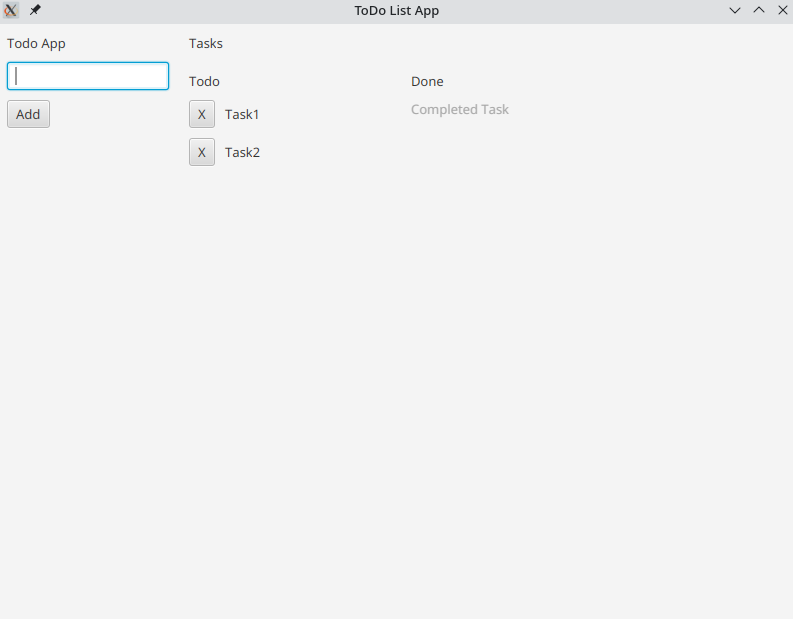
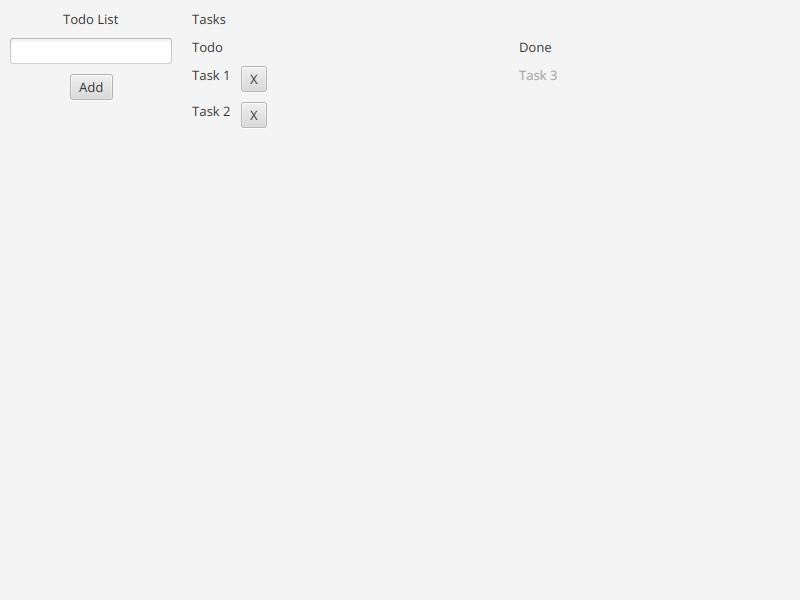
Split layout exercise into form and task column checkpoints

diff --git a/javafx-2-layouts/src/main/java/it/unibo/javafx/layouts/App.java b/javafx-2-layouts/src/main/java/it/unibo/javafx/layouts/App.java
@@ -1,51 +1,46 @@
 package it.unibo.javafx.layouts;
 
 import javafx.application.Application;
-import javafx.geometry.Pos;
 import javafx.scene.Node;
 import javafx.scene.Scene;
-import javafx.scene.control.Button;
-import javafx.scene.control.Label;
-import javafx.scene.control.TextField;
 import javafx.scene.layout.BorderPane;
-import javafx.scene.layout.HBox;
-import javafx.scene.layout.Priority;
 import javafx.scene.layout.VBox;
 import javafx.stage.Stage;
 
 public class App extends Application {
     @Override
-    public void start(Stage primaryStage) throws Exception {
-        // Il root è un BorderPane, che divide la finestra in 5 aree: top, bottom, left, right, center.
-        // Noi usiamo solo left e center.
-        BorderPane root = new BorderPane();
-        // Left Pane, contiene il titolo e il form per aggiungere nuovi task.
-        VBox leftPane = new VBox();
-        // TODO aggiungere il titolo e i pulsanti
-        // Aggiungo i nodi al leftPane
-        // ....
-        // Right Pane, contiene il task da fare e i task fatti (vedi l'immagine)
-        VBox rightPane = new VBox();
-        // Aggiungo le due colonne,
-        // ..
-         // Imposto i pannelli sinistro e centrale come figli del root.
-        root.setLeft(leftPane);
-        root.setCenter(rightPane);
+    public void start(final Stage primaryStage) {
+        final BorderPane root = new BorderPane();
+        root.setLeft(createInputPane());
+        root.setCenter(createTasksPane());
 
-        Scene scene = new Scene(root, 800, 600);
         primaryStage.setTitle("ToDo List App");
-        primaryStage.setScene(scene);
+        primaryStage.setScene(new Scene(root, 800, 600));
         primaryStage.show();
     }
 
-    public static class Main {
-        public static void main(String... args) {
-            Application.launch(App.class, args);
-        }
+    // Checkpoint 2A: costruire il form.
+    private static VBox createInputPane() {
+        final VBox pane = new VBox();
+        // TODO completare come richiesto nel README.
+        return pane;
     }
 
-    // Crea un todo composto da una label e un bottone per segnare il task come completato.
-    private static Node createTaskSection(String content) {
-        throw new UnsupportedOperationException("TODO");
+    // Checkpoint 2B: costruire l'area Tasks con le due colonne e i dati statici.
+    private static VBox createTasksPane() {
+        final VBox pane = new VBox();
+        // TODO completare come richiesto nel README.
+        return pane;
+    }
+
+    // Checkpoint 2B: costruire una riga dei task da fare.
+    private static Node createTaskSection(final String content) {
+        throw new UnsupportedOperationException("Not implemented yet");
+    }
+
+    public static class Main {
+        public static void main(final String... args) {
+            Application.launch(App.class, args);
+        }
     }
 }

diff --git a/javafx-2-layouts/README.md b/javafx-2-layouts/README.md
@@ -1,39 +1,46 @@
-# Esercizio sull'utilizzo dei layout in JavaFX
+# Esercizio sui layout di JavaFX: la TODO list
 
-Questo esercizio ha lo scopo di sviluppare una comprensione pratica dei layout in JavaFX, creando un'interfaccia grafica (GUI) per un'applicazione. 
-L'obiettivo è realizzare una GUI che corrisponda all'aspetto mostrato nell'immagine di esempio. 
-L'esercizio si concentra esclusivamente sulla struttura della GUI, senza implementare la logica di business, che sarà affrontata in seguito.
+Costruire l'interfaccia di una TODO list in due checkpoint, nello stesso progetto. L'obiettivo è comporre i controlli e organizzare i contenitori, riprendendo le sezioni sui layout e sul dimensionamento delle [slide del corso](https://unibo-lptsi-pss.github.io/22-gui/#/).
 
-![GUI Layout Example](./schema.png)
+I dati sono statici: i pulsanti **Add** e **X** devono essere visibili, ma non devono ancora eseguire azioni. La logica sarà aggiunta nell'esercizio 3.
 
-## Fasi per la realizzazione della GUI
+## 2A — Il form
 
-### Analisi dei componenti necessari
-- Esaminare attentamente l'immagine fornita per identificare i componenti necessari alla creazione della GUI.
+Completare `createInputPane()` con un titolo “Todo List”, un campo di testo e un pulsante “Add”, disposti in verticale. Il form occupa l'area sinistra della finestra; l'area centrale resta per ora vuota.
 
-### Sviluppo della parte sinistra
-- La parte sinistra della GUI deve includere:
-  - Un titolo.
-  - Un campo di testo.
-  - Un pulsante.
-  - **Nota:** Utilizzare il metodo `setAlignment` con la costante `Pos.TOP_CENTER` per centrare questi elementi come mostrato nell'immagine.
+Prima verificare l'ordine degli elementi, poi aggiungere spazio e allineamento:
 
-### Sviluppo della parte destra
-- La parte destra è un contenitore verticale (`VBox`) che a sua volta contiene:
-  - Un'intestazione con il testo "Tasks".
-  - Un contenitore orizzontale (`HBox`) che ospita le due colonne "Todo" e "Done".
-  
-#### Colonna "Todo"
-- La colonna "Todo" è un `VBox` che contiene:
-  - Un'etichetta con il testo "Todo".
-  - Una serie di task da completare.
-- **Suggerimento:** Per creare ciascun task nella lista "Todo", si consiglia di utilizzare un metodo helper (es. `createTaskSection`). Questo metodo dovrebbe prendere una stringa come parametro e restituire il `Node` (`HBox`) che rappresenta il singolo task. Tale approccio migliora la modularità e la leggibilità del codice e potrà essere riutilizzato anche per la colonna "Done".
+- **Spacing:** distanza fra i componenti figli di un contenitore.
+- **Padding:** spazio interno fra il bordo del contenitore e i suoi componenti.
+- **Alignment:** posizione dei componenti all'interno dello spazio disponibile.
 
-#### Colonna "Done"
-- Anche la colonna "Done" è un `VBox` e contiene:
-  - Un'etichetta con il testo "Done".
-  - I task completati (che sono settati come disabilitati)
+In JavaFX si configurano con `setSpacing(...)`, `setPadding(new Insets(...))` e `setAlignment(...)`, sui contenitori che li supportano. Per il form, usare l'allineamento `Pos.TOP_CENTER`.
 
-**Note importanti:**
-- Utilizzare i metodi `setSpacing` e `setPadding` per gestire gli spazi tra i componenti e i margini interni dei layout.
-- Assicurarsi che tutti i componenti siano ben allineati e distribuiti come mostrato nell'immagine di esempio.
+![Checkpoint 2A: form nella parte sinistra e area centrale vuota](checkpoint-form.png)
+
+**Checkpoint:** titolo, campo e pulsante sono visibili in verticale, separati da spazio e distanziati dai bordi. Il campo accetta testo; premere Add non aggiunge task.
+
+## 2B — Le colonne dei task
+
+Completare `createTasksPane()` nell'area centrale, mantenendo il form della prima tappa. Aggiungere un'intestazione “Tasks” e, sotto, due colonne affiancate:
+
+- **Todo:** intestazione e due task, “Task 1” e “Task 2”. Ogni riga contiene il testo e un pulsante “X”. Completare `createTaskSection(String content)` per costruire entrambe le righe.
+- **Done:** intestazione e il testo “Task 3”, disabilitato e senza pulsante.
+
+Inserire i tre task direttamente nel codice. Scegliere come combinare i contenitori per ottenere la struttura mostrata.
+
+![Checkpoint 2B: form e due colonne con task statici](schema.png)
+
+**Checkpoint:** le colonne sono affiancate, i task di ciascuna colonna sono in verticale e il testo completato appare disabilitato. I pulsanti X non modificano i task.
+
+Conta la struttura della GUI: non è richiesta una riproduzione esatta delle misure o delle distanze dello screenshot.
+
+## Estensione: ridimensionare la finestra
+
+Allargare e restringere la finestra: quali aree cambiano dimensione? Come si distribuisce lo spazio fra le colonne? Provare a far usare alle due colonne lo spazio orizzontale disponibile, senza ricorrere a coordinate fisse.
+
+Questa parte è facoltativa; i due checkpoint precedenti costituiscono l'esercizio base.
+
+## Avvio
+
+Dalla root: `./gradlew :javafx-2-layouts:run` (Windows: `.\gradlew.bat :javafx-2-layouts:run`).

diff --git a/README.md b/README.md
@@ -17,7 +17,7 @@ Il progetto usa un solo wrapper Gradle nella root e quattro sotto-progetti, dich
 
 - [`javafx-1-property`](javafx-1-property/README.md): lampadina osservabile e binding con la GUI.
 - [`javafx-1b-property-volume`](javafx-1b-property-volume/README.md): regolatore del volume e sincronizzazione tra modello e GUI.
-- [`javafx-2-layouts`](javafx-2-layouts/README.md): costruzione della GUI di una TODO list.
+- [`javafx-2-layouts`](javafx-2-layouts/README.md): costruzione della GUI di una TODO list in due checkpoint, form e colonne dei task.
 - [`javafx-3-fxml`](javafx-3-fxml/README.md): modello osservabile e controller della TODO list. Il nome della cartella è storico: l'esercizio usa la GUI costruita in Java, senza richiedere FXML.
 
 Il `build.gradle.kts` nella root contiene la configurazione comune: toolchain Java 25, moduli JavaFX, JUnit e repository. I file nei sotto-progetti specificano le rispettive classi di avvio. Queste sono separate dalla sottoclasse di `Application`, come indicato nelle slide.
